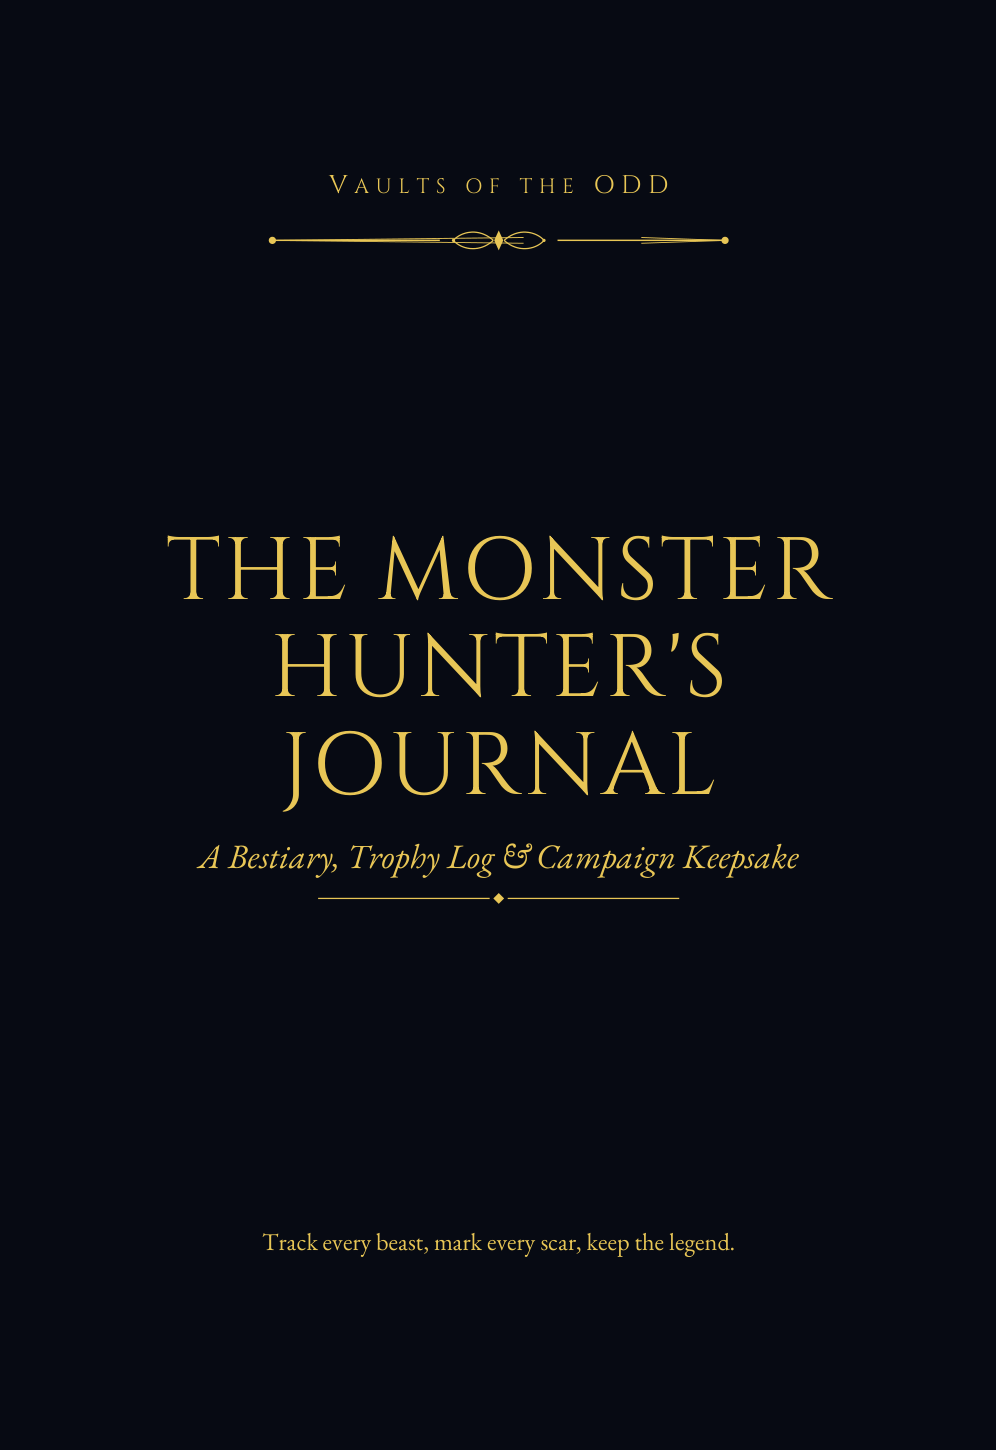
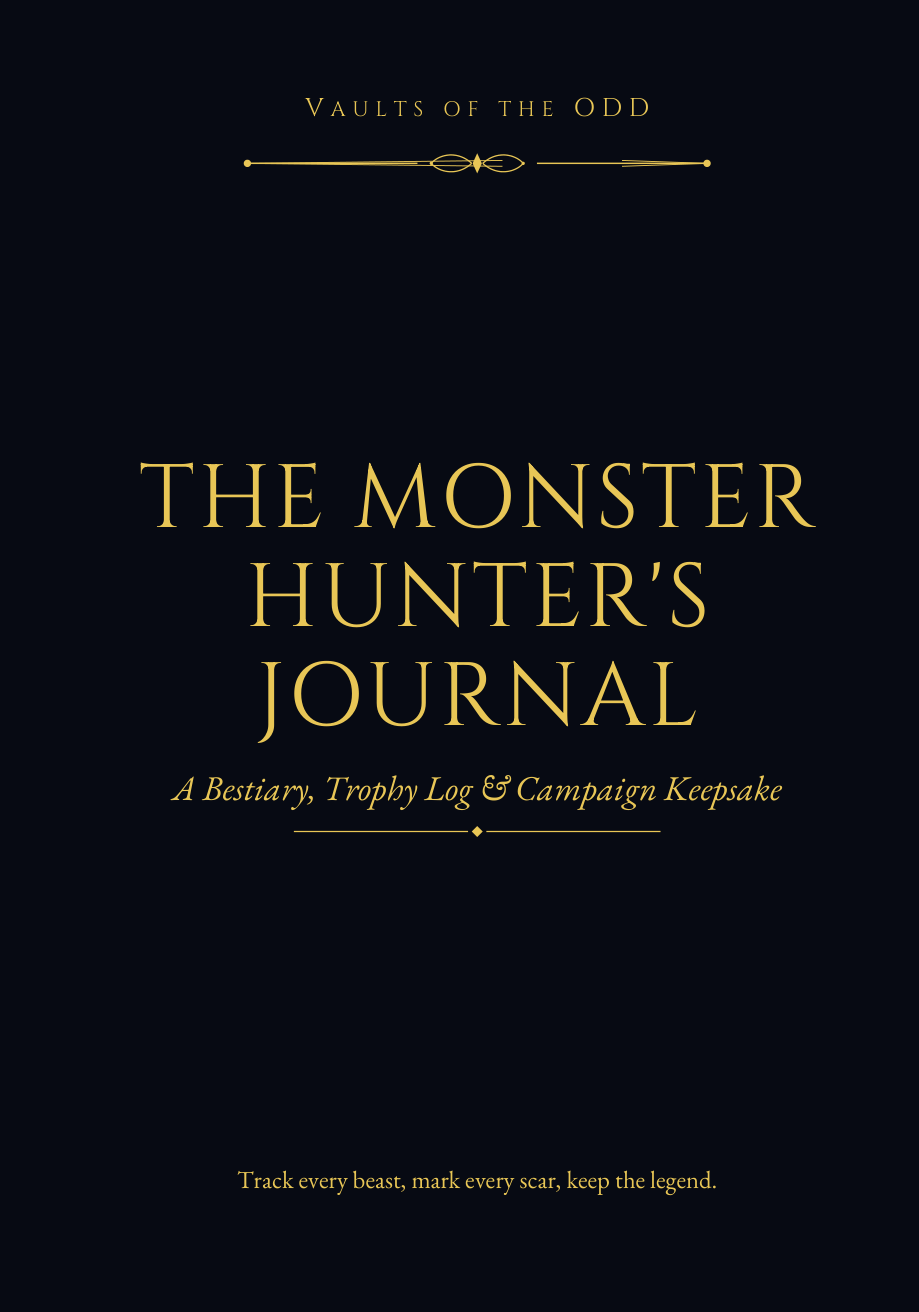
Standardise journal cover proportions to 7:10
The journals share a 7x10 trim, so render all cover representations at that
aspect: re-crop the Monster Hunter cover images to a true 7:10 frame and set
both the plain swatches and the cover images to aspect-ratio 7/10. All four
covers now display at matching size.

https://claude.ai/code/session_01MFVa5sYYDjsbReDZ77nofE

diff --git a/assets/css/main.css b/assets/css/main.css
@@ -444,9 +444,9 @@ figcaption, .wp-element-caption { font-size: 0.78rem; font-style: italic; color:
 .product-grid { display: grid; gap: 1.4rem; grid-template-columns: repeat(auto-fit, minmax(15rem, 1fr)); margin: 2rem 0; }
 .product-card { background: var(--bg-card); border: 1px solid var(--rule-soft); border-radius: 4px; padding: 1.4rem; }
 .product-covers { display: flex; gap: 0.6rem; margin-bottom: 1rem; }
-.book-cover { flex: 1; aspect-ratio: 3 / 4; border-radius: 2px; background: var(--c, var(--bg-alt)); border: 1px solid var(--rule-soft); box-shadow: inset 3px 0 0 rgba(255,255,255,0.10), inset -2px 0 0 rgba(0,0,0,0.28); }
+.book-cover { flex: 1; aspect-ratio: 7 / 10; border-radius: 2px; background: var(--c, var(--bg-alt)); border: 1px solid var(--rule-soft); box-shadow: inset 3px 0 0 rgba(255,255,255,0.10), inset -2px 0 0 rgba(0,0,0,0.28); }
 .book-cover.titled { display: flex; align-items: center; justify-content: center; text-align: center; padding: 0.45rem; font-family: var(--display); font-size: 0.58rem; letter-spacing: 0.05em; line-height: 1.3; text-transform: uppercase; color: var(--ct, #fff); }
-.product-covers .cover-img { flex: 1; min-width: 0; height: auto; border-radius: 2px; border: 1px solid var(--rule-soft); box-shadow: 0 2px 10px rgba(0,0,0,0.22); }
+.product-covers .cover-img { flex: 1; min-width: 0; aspect-ratio: 7 / 10; object-fit: cover; border-radius: 2px; border: 1px solid var(--rule-soft); box-shadow: 0 2px 10px rgba(0,0,0,0.22); }
 .product-variants { font-size: 0.85rem; color: var(--text-muted); margin: 0 0 0.6rem; }
 .product-cover { aspect-ratio: 3 / 4; border-radius: 2px; margin-bottom: 1rem; display: flex; align-items: center; justify-content: center; text-align: center; }
 .product-cover.placeholder { background: linear-gradient(160deg, var(--bg-alt), var(--bg)); border: 1px dashed var(--rule); color: var(--text-muted); font-family: var(--display); font-size: 0.85rem; letter-spacing: 0.06em; }